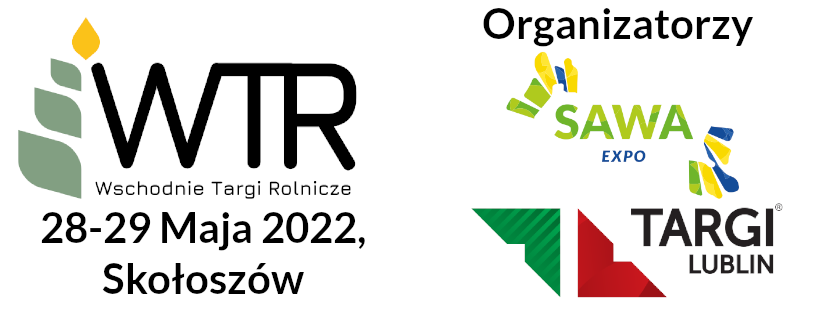
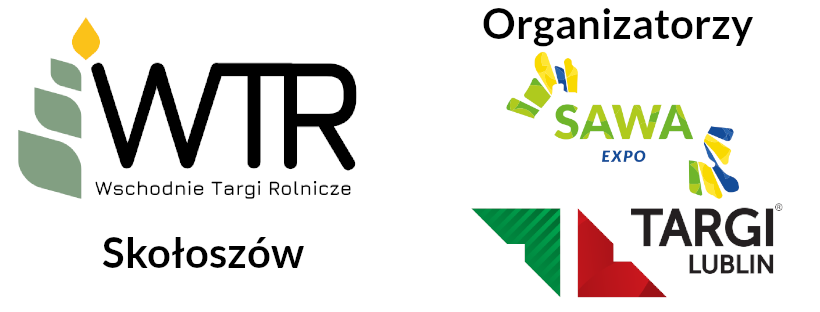
przełożenie targów

Changed region(s): [[0.0305, 0.6635, 0.4573, 0.9519]]

diff --git a/index.php b/index.php
@@ -23,7 +23,7 @@
 
 <div class="dla_firm">Szanowni Państwo,<br><br>
 
-Informujemy, że tegoroczna edycja Agro Targów Wschód odbędzie się pod nazwą Wschodnie Targi Rolnicze w dniach 28-29 maja 2022 r. w Skołoszowie. Organizatorami targów będzie firma Sawa-Expo i Targi Lublin S.A. Zapraszamy do odwiedzenia strony internetowej <a href="https://wschodnietargirolnicze.pl">www.wschodnietargirolnicze.pl</a><br><br>
+Mając na uwadze toczącą się w Ukrainie wojnę, jesteśmy zmuszeni do przełożenia Wschodnich Targów Rolniczych, które miały się odbyć w dniach 28-29 maja 2022. Więcej informacji na stronie: <a href="https://wschodnietargirolnicze.pl">www.wschodnietargirolnicze.pl</a><br><br>
     
 
     

diff --git a/header.php b/header.php
@@ -52,8 +52,8 @@
             <a href="index.php"><img src="./src/assets/img/logo.png" alt="Logo"></a>
         </div>
         <div class="col-12 col-sm-6 col-lg-auto pt-3 pt-sm-0 d-flex flex-column justify-content-center align-items-center align-content-sm-start">
-            <h3 class="heading-3"> 28-29 MAJ 2022 <br> SKOŁOSZÓW</h3>
-            <small>Pozostało <b id="counter"></b></small>
+            <h3 class="heading-3"> <!-- 28-29 MAJ 2022 <br> SKOŁOSZÓW</h3> -->
+            <!-- <small>Pozostało <b id="counter"></b></small> -->
         </div>
         <div class="col-12 col-lg pt-3 pt-md-0">
             <div class="row d-flex justify-content-end">
